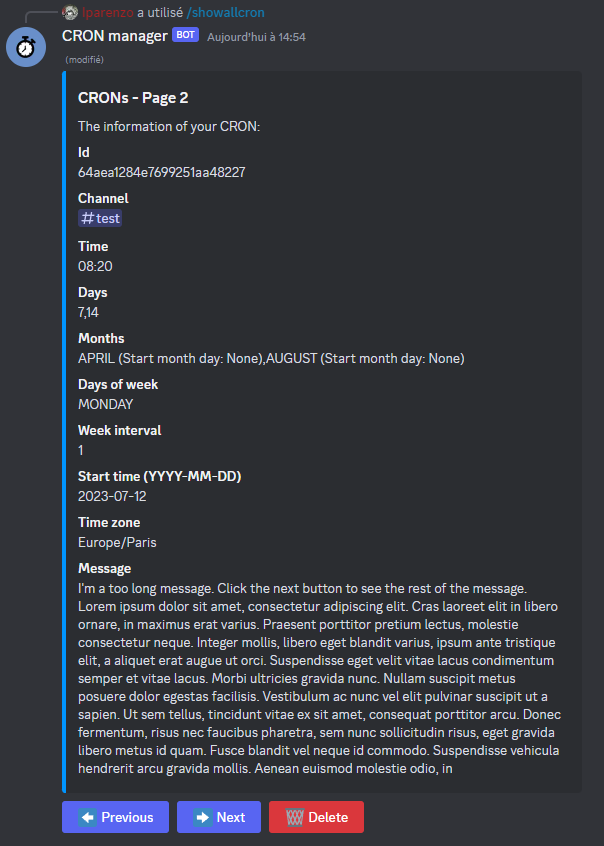
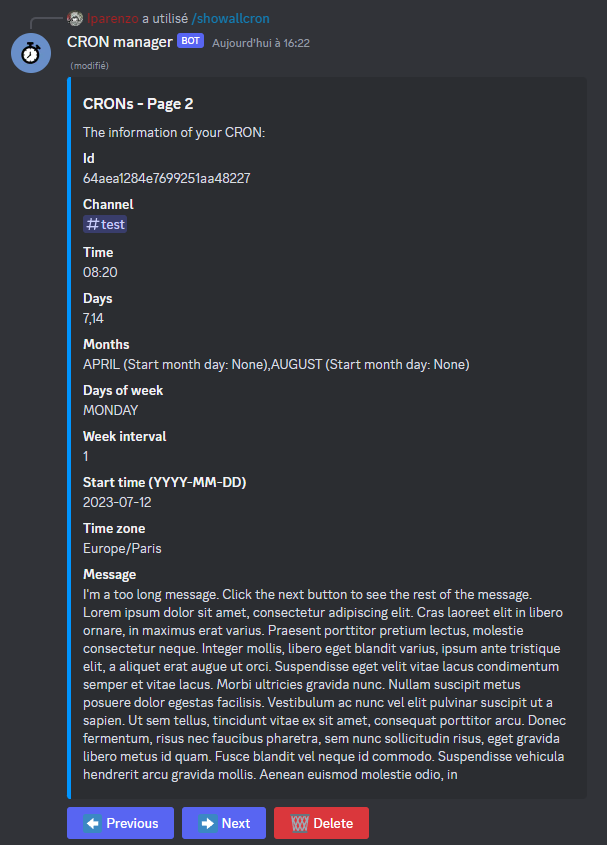
update of readme and disabling buttons of pagination depending on pages

Changed region(s): [[0.0, 0.0, 0.9238, 1.0]]

diff --git a/utils/tools.js b/utils/tools.js
@@ -616,12 +616,14 @@ async function pagination(interaction, pages) {
 				.setCustomId("prev")
 				.setLabel("Previous")
 				.setStyle("PRIMARY")
-				.setEmoji("⬅"),
+				.setEmoji("⬅")
+				.setDisabled(true), // Désactive le bouton "Previous" dans un premier temps
 			new MessageButton()
 				.setCustomId("next")
 				.setLabel("Next")
 				.setStyle("PRIMARY")
-				.setEmoji("➡"),
+				.setEmoji("➡")
+				.setDisabled(pages.length === 1), // Désactive le bouton  "Next" s'il y a seulement une page
 			new MessageButton()
 				.setCustomId("delete")
 				.setLabel("Delete")
@@ -663,16 +665,16 @@ async function pagination(interaction, pages) {
 			return;
 		}
 
-		// Gère les pages (si on appuie sur précédent en étant sur le premier, alors on va à la dernière page et inversement)
-		if (currentPageIndex < 0) {
-			currentPageIndex = pages.length - 1;
-		} else if (currentPageIndex >= pages.length) {
-			currentPageIndex = 0;
-		}
+		// Met à jour l'état désactivé des boutons "Previous" et "Next" en fonction de l'index de la page en cours
+		components[0].components[0].setDisabled(currentPageIndex === 0);
+		components[0].components[1].setDisabled(
+			currentPageIndex === pages.length - 1
+		);
 
 		// Met à jour la réponse d'interaction avec la nouvelle page
 		await i.update({
 			embeds: [pages[currentPageIndex]],
+			components: components,
 		});
 	});
 
